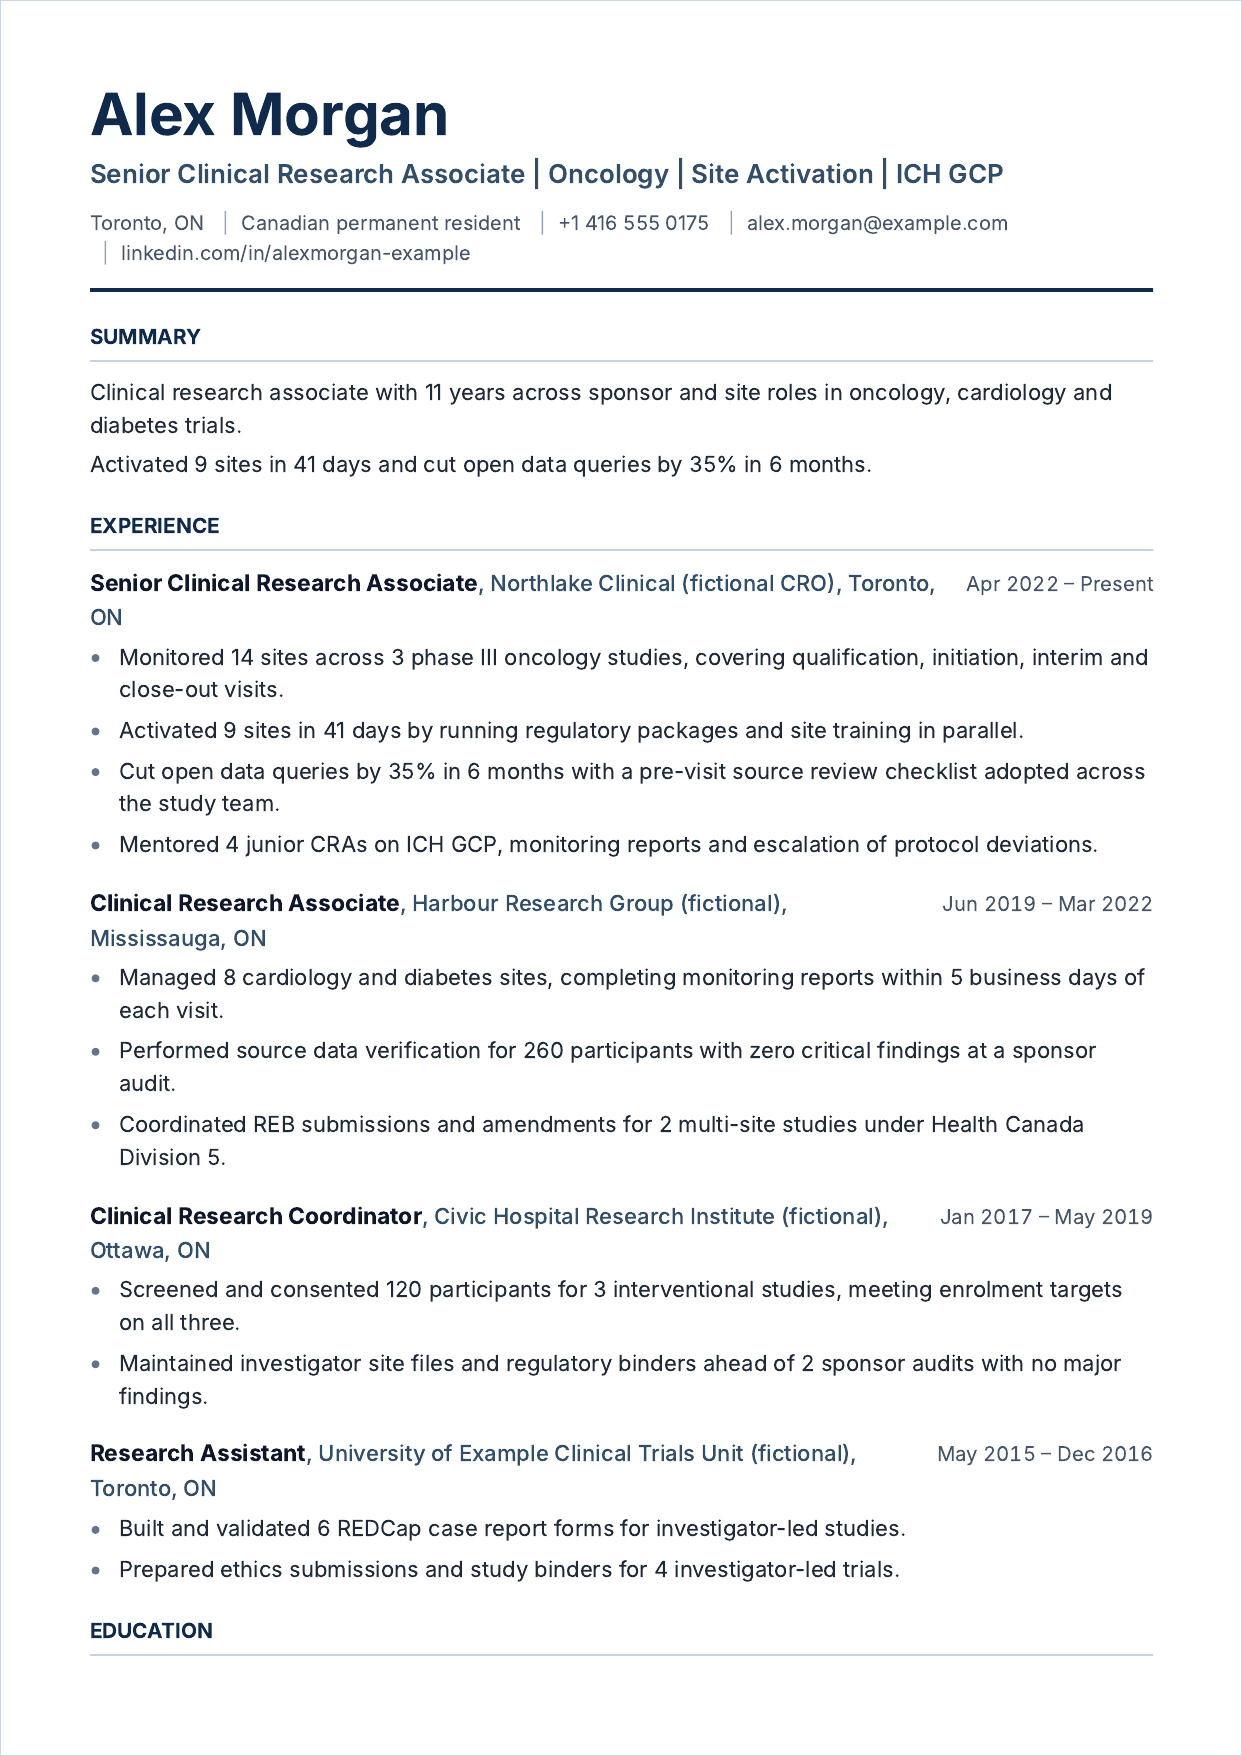
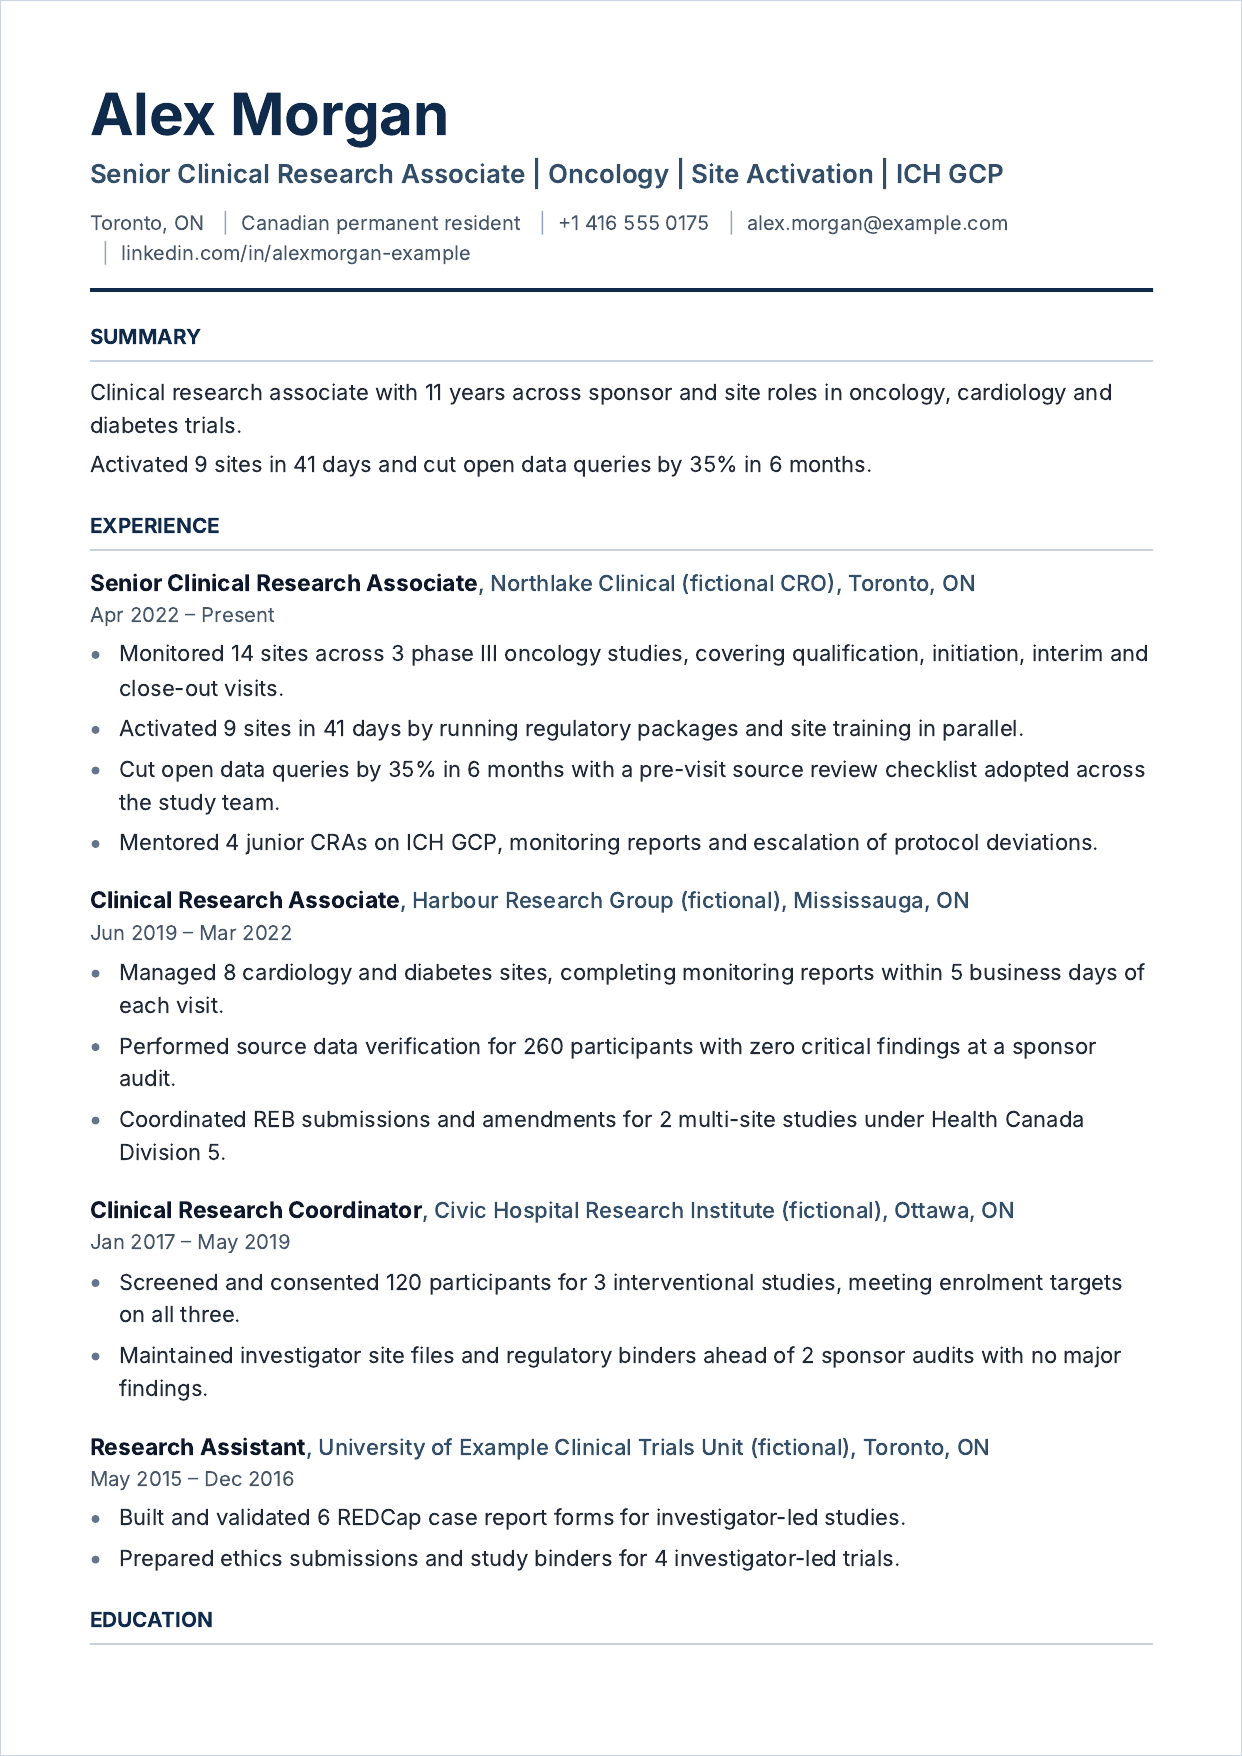
Export: keep role dates and skill groups in text flow so PDFs parse with any font
The new PDF smoke test failed in CI (run #31/#32): with fallback fonts,
pdftotext placed right-aligned role dates at the end of the document; with
Inter, pypdf dropped tabular-nums digits. Dates now sit on their own line
under the title, skills render as 'Label: items'. Locally: old export failed
5 of 8 font/extractor combinations, new export 0. Screenshots regenerated.

Claude-Session: https://claude.ai/code/session_014xsdTTyVTw3NY9fHWX9otB

diff --git a/scripts/export.py b/scripts/export.py
@@ -151,9 +151,11 @@ ul { margin: 3pt 0 0 0; padding-left: 13pt; }
 li { margin: 0 0 3.6pt; padding-left: 1pt; }
 li::marker { color: #64748b; }
 .role { margin: 0 0 12pt; break-inside: avoid; }
-.role-head { display: flex; justify-content: space-between; align-items: baseline; gap: 10pt; }
+/* Title line, then dates on their own line, both in normal text flow. Right-aligned (flex) dates were
+   extracted out of reading order with some fonts, and tabular-nums glyphs lost their digits in pypdf. */
+.role-head { display: block; }
 .role-title { font-weight: 700; color: #0f172a; font-size: 11pt; }
-.dates { white-space: nowrap; color: #475569; font-size: 9.8pt; font-variant-numeric: tabular-nums; }
+.dates { display: block; white-space: nowrap; color: #475569; font-size: 9.8pt; }
 .org { color: #334e68; font-weight: 500; }
 .item { margin: 0 0 7pt; }
 .item strong { color: #0f172a; }
@@ -165,8 +167,7 @@ li::marker { color: #64748b; }
 THEMES = {
     "classic": BASE_CSS + """
 header { padding-bottom: 9pt; border-bottom: 2.2pt solid #0f2a4a; margin-bottom: 2pt; }
-.skills-inline .skill-group { display: flex; gap: 6pt; }
-.skills-inline .skill-group b { display: inline; min-width: 72pt; margin: 0; }
+.skills-inline .skill-group b { display: inline; margin: 0; }   /* one line of text: "Label: items" */
 """,
     "modern": BASE_CSS + """
 header { background: #0f2a4a; color: #fff; margin: 0 0 16pt; padding: 8mm 8mm 7mm; border-radius: 3pt; }
@@ -202,7 +203,7 @@ def _sections(s: dict, facts: dict) -> dict[str, str]:
             dates = f"{cvlib.fmt_month(role['start'])} – {cvlib.fmt_month(role.get('end', 'present'))}"
             where = ", ".join(x for x in (role["employer"], role.get("location", "")) if x)
             parts.append(f"<div class='role'><div class='role-head'><span><span class='role-title'>{esc(role['title'])}</span>"
-                         f"<span class='org'>, {esc(where)}</span></span><span class='dates'>{esc(dates)}</span></div>")
+                         f"<span class='org'>, {esc(where)}</span></span> <span class='dates'>{esc(dates)}</span></div>")
             if r["highlights"]:
                 parts.append("<ul>" + "".join(f"<li>{esc(h)}</li>" for h in r["highlights"]) + "</ul>")
             parts.append("</div>")
@@ -219,7 +220,7 @@ def _sections(s: dict, facts: dict) -> dict[str, str]:
             for x in s["certifications"])
     if s["skills"]:
         out["skills"] = "<h2>Skills</h2>" + "".join(
-            f"<div class='skill-group'><b>{esc(g['label'])}</b>{esc(', '.join(g['items']))}</div>" for g in s["skills"])
+            f"<div class='skill-group'><b>{esc(g['label'])}:</b> {esc(', '.join(g['items']))}</div>" for g in s["skills"])
     if s["languages"]:
         out["languages"] = "<h2>Languages</h2><p>" + ", ".join(
             f"{esc(l['name'])} ({esc(l.get('level', ''))})" for l in s["languages"]) + "</p>"

diff --git a/CHANGELOG.md b/CHANGELOG.md
@@ -13,6 +13,9 @@ All notable changes to this project are documented here. Versions follow [Semant
 - `schedule.py install` and `run-once` stop with an explanation outside the full project clone, where the `nomagic-daily` command they run does not exist
 - Commands renamed to say what they do: `/nomagic-start` → `/nomagic-facts`, `/nomagic-build` → `/nomagic-master`, `/nomagic-apply` → `/nomagic-tailor` (it never submits), `/nomagic-review` → `/nomagic-stats`, `/nomagic-leads` → `/nomagic-employers`
 
+### Fixed
+- PDF export: role dates are now a separate line under the title in normal text flow, and skill groups render as one line ("Label: items"). Before, right-aligned dates were extracted out of reading order with fallback fonts (pdftotext put them at the end of the document), and `tabular-nums` glyphs lost their digits in pypdf, so `parse_check.py` could not find the role lines. Found by the new PDF smoke test; checked locally across Inter, Source Sans 3, Liberation Sans and Liberation Serif with both extractors (old: 5 of 8 combinations failed; new: 0). README screenshots and the walkthrough image regenerated
+
 ### Added
 - Outreach in two modes: semi-auto drafts (default) and capped auto-send, with consent basis, follow-up limits, opt-outs and banned phrases enforced by `outreach.py` and a pre-send hook
 - Lead import from gosom/google-maps-scraper and google-maps-scraper-kit exports; MX checks without SMTP probing

diff --git a/docs/WALKTHROUGH.md b/docs/WALKTHROUGH.md
@@ -145,7 +145,7 @@ ERROR  letter.md:3  [R-KNOCK-02] Claims 10 years; the fact sheet supports at mos
 $ python $S/export.py pdf cv.md
 Wrote Jordan_Lee_Business_Intelligence_Analyst.pdf
 $ python $S/parse_check.py Jordan_Lee_Business_Intelligence_Analyst.pdf --source cv.md
-OK     Jordan_Lee_Business_Intelligence_Analyst.pdf: 1158 characters parsed (0 warnings).
+OK     Jordan_Lee_Business_Intelligence_Analyst.pdf: 1160 characters parsed (0 warnings).
 ```
 
 `export.py pdf` uses a Chrome, Chromium or Edge already on your computer; without one, use `export.py html` and print to PDF, or `export.py rendercv`. The parse check extracts the text the way simple parsers do and confirms every source line survived, in order. It is not a test against any particular employer's applicant tracking system.
